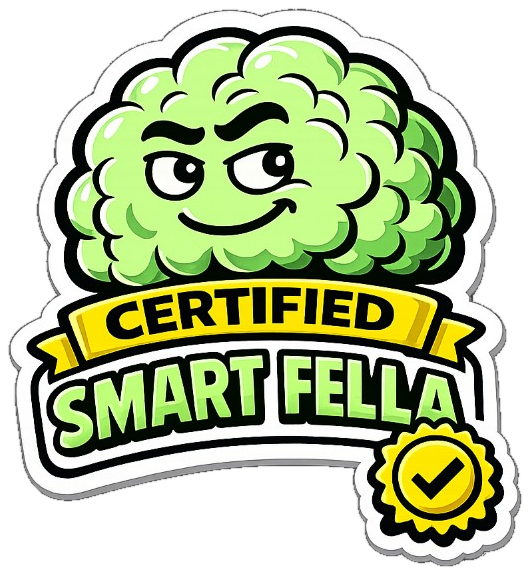
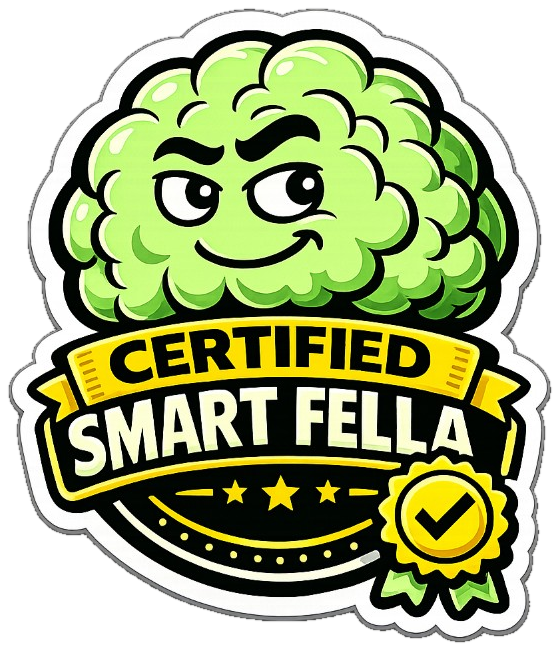
design(v3): redraw the Smart Fella badge to match its Fart Smella counterpart
The two badges sit in the same slot on the same card and should read as one
set. The old Smart Fella art was a different construction — no stars arc, the
seal hanging off a bare corner, a shorter frame — so the pair looked like two
stickers from two places rather than the two ends of one scale. This version
shares the Fart Smella layout exactly, leaving the brain colour and the words
as the only differences, which are the only differences that carry meaning.

Intrinsic dimensions move with the art so the browser still reserves the right
box and the card does not jump while the image loads.

diff --git a/components/test/results-view.tsx b/components/test/results-view.tsx
@@ -67,8 +67,8 @@ const VERDICT_BADGE: Partial<
 > = {
   "certified-smart-fella": {
     src: "/certified-smart-fella.png",
-    width: 530,
-    height: 575,
+    width: 560,
+    height: 651,
   },
   "certified-fart-smella": {
     src: "/certified-fart-smella.png",
